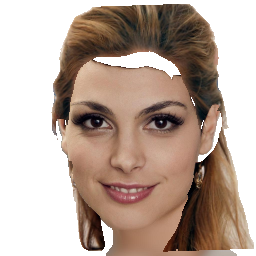
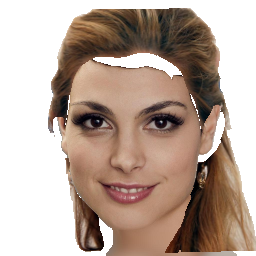
Add: combine_background in artifact_fill.py

diff --git a/image_artifact_fill/artifact_fill.py b/image_artifact_fill/artifact_fill.py
@@ -18,33 +18,45 @@ def convert_to_gray(image):
     return cv2.cvtColor(image.astype('uint8'), cv2.COLOR_RGB2GRAY)
 
 
-def background_artifact_fill(original_image, original_mask, new_image, background_radius):
-    original_mask_gray = cv2.cvtColor(original_mask,
-                                      cv2.COLOR_RGB2GRAY)
+def background_artifact_fill(original_image, original_mask, background_radius):
+    original_mask_gray = cv2.cvtColor(original_mask, cv2.COLOR_RGB2GRAY)
     object_mask = np.where(original_mask_gray != 0, 255, 0)
     object_mask = object_mask.astype('uint8')
-    dilation_kernel = np.ones((13, 13), np.uint8)
+    dilation_kernel = np.ones((17, 17), np.uint8)
     dilation_mask = cv2.dilate(object_mask, dilation_kernel, iterations=1)
     filled_background = cv2.inpaint(original_image, dilation_mask,
                                     background_radius, cv2.INPAINT_TELEA)
-    filled_background = np.where(new_image == np.array([255, 255, 255]),
-                                 filled_background, new_image)
 
     return filled_background
+
+
+def combine_background(original_image, original_mask, final_image,
+                       final_mask, background_radius=25):
+    bg_filled_artifact = background_artifact_fill(original_image,
+                                               original_mask, background_radius)
+    final_mask_gray = cv2.cvtColor(final_mask, cv2.COLOR_RGB2GRAY)
+    mask = np.where(final_mask_gray != 0, 255, 0).astype('uint8')
+    mask_3d = np.asarray([mask]*3)
+    mask_3d = mask_3d.transpose(1, 2, 0)
+    added_image = np.where(mask_3d != np.array([255, 255, 255]),
+                           bg_filled_artifact, final_image).astype('uint8')
+
+    return added_image
 
 
 def face_artifact_fill(original_image, original_mask, new_image,
                        new_mask, new_segment, face_radius=5, background_radius=25,
                        had_background=0):
     if had_background:
-        filled_bg_artifact = background_artifact_fill(
-            original_image, original_mask, new_image, background_radius).astype('uint8')
+        filled_artifact = background_artifact_fill(
+            original_image, original_mask, background_radius)
+        filled_artifact = np.where(new_image >= np.array([255, 255, 255]),
+                                   filled_artifact, new_image).astype('uint8')
     else:
-        filled_bg_artifact = new_image.astype('uint8')
+        filled_artifact = new_image.astype('uint8')
     diff = np.where((convert_to_gray(new_mask) == convert_to_gray(new_segment)),
                     0, 255).astype('uint8')
-    filled_face_artifact = cv2.inpaint(filled_bg_artifact, diff,
+    filled_face_artifact = cv2.inpaint(filled_artifact, diff,
                                        face_radius, cv2.INPAINT_TELEA)
 
     return filled_face_artifact
-

diff --git a/inference.py b/inference.py
@@ -12,7 +12,7 @@ import matplotlib.pyplot as plt
 from image_segmentation.segment_inference import face_segment
 from runners.image_editing import Diffusion
 from image_landmark_transform.face_landmark import face_landmark_transform
-from image_artifact_fill.artifact_fill import face_artifact_fill
+from image_artifact_fill.artifact_fill import face_artifact_fill, combine_background
 
 
 def parse_args_and_config():
@@ -158,9 +158,25 @@ def main():
 
     try:
         runner = Diffusion(args, config)
-        runner.image_editing_sample(filled_image, sde_mask)
+        final_image = runner.image_editing_sample(filled_image, sde_mask)
     except Exception:
         logging.error(traceback.format_exc())
+
+    # include background
+    final_segment = segment.segmenting(image=final_image)
+    included_bg_image = combine_background(target_image, target_mask, final_image,
+                       final_segment)
+    
+    pix = cv2.cvtColor(included_bg_image, cv2.COLOR_RGB2BGR)
+    cv2.imwrite('.\exp\image_samples\images\samples_bg.png', pix)
+
+    plt.figure("final_image")
+    plt.imshow(final_image)
+    plt.figure("final_segment")
+    plt.imshow(final_segment)
+    plt.figure("included_bg_image")
+    plt.imshow(included_bg_image)
+    plt.show()
 
     return 0
 

diff --git a/runners/image_editing.py b/runners/image_editing.py
@@ -151,3 +151,6 @@ class Diffusion(object):
                                            f'samples_{it}.pth'))
                 tvu.save_image((x + 1) * 0.5, os.path.join(self.args.image_folder,
                                                            f'samples_{it}.png'))
+
+            a = (((x + 1) * 0.5).squeeze().permute(1,2,0) *255).cpu().numpy()
+            return np.clip(a, 0, 255).astype('uint8')
